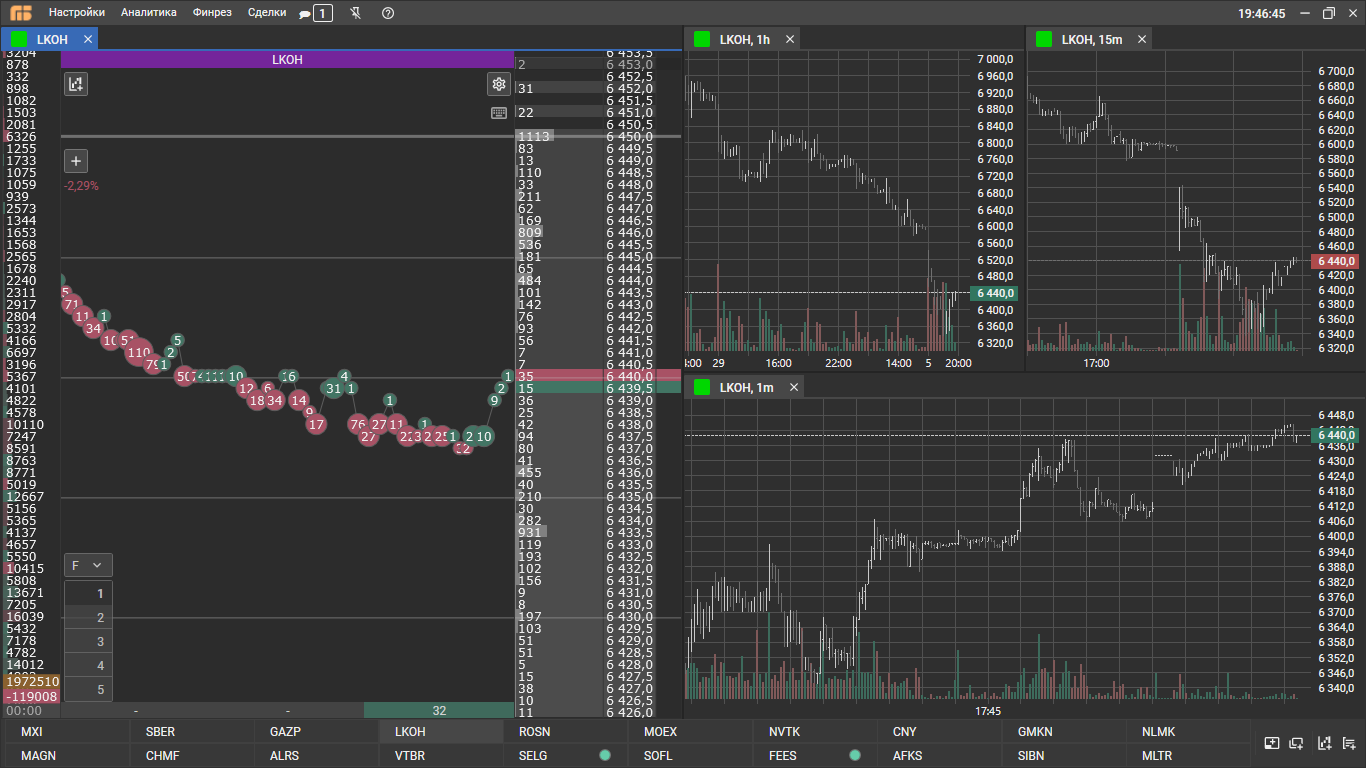
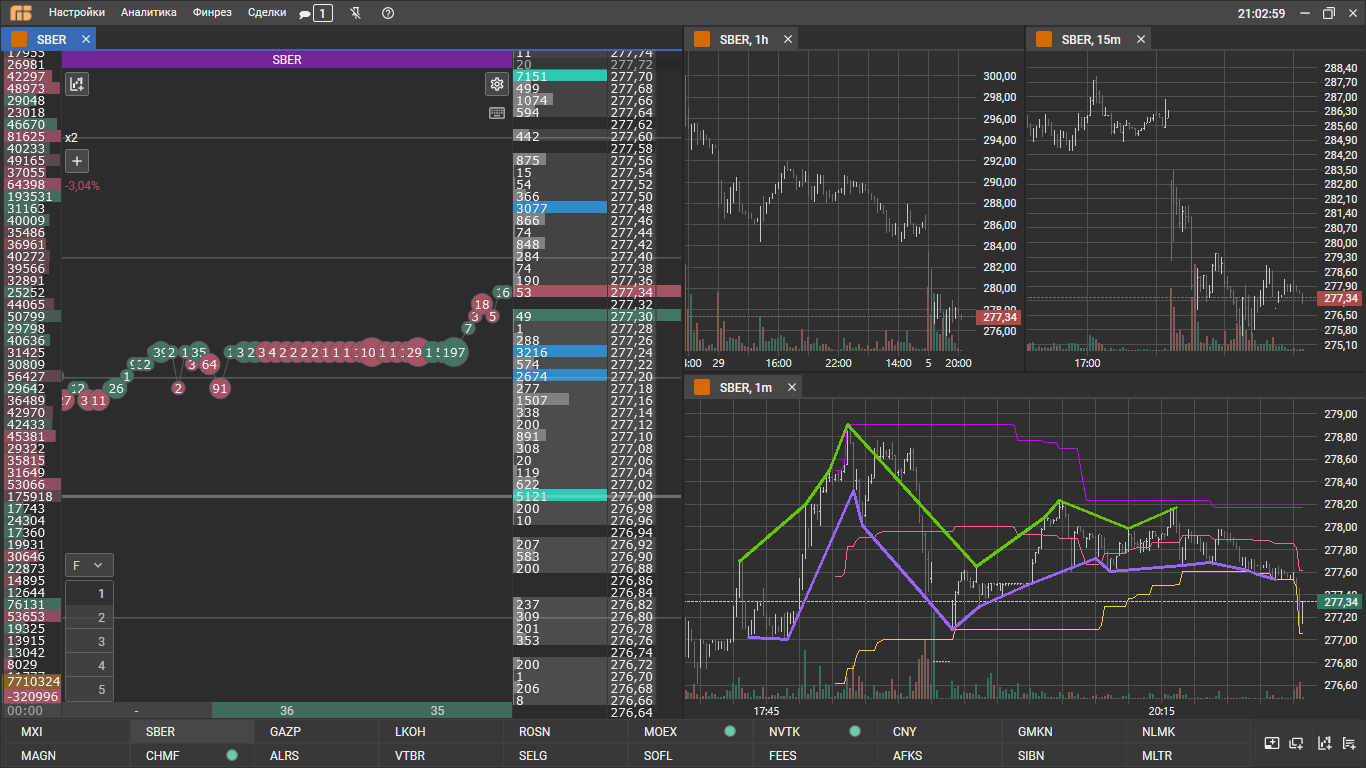
some work

diff --git a/visual_traider_v1/tas/WorkTA.py b/visual_traider_v1/tas/WorkTA.py
@@ -25,14 +25,28 @@ class WorkTA(BaseTA):
         volume_cords = self.trader._get_cords_on_mask(volume_mask)
         half_bars = self.trader._get_half_bars(candle_mask,candle_cords,volume_cords)
         cur_price = self.trader._get_current_price(chart)
-        
+        distance_per_hb = half_bars[1].x - half_bars[0].x
+        print(distance_per_hb)
+        hpts = np.array(list(map(lambda x: x.hpt,half_bars)))
+        lpts = np.array(list(map(lambda x: x.lpt,half_bars)))
+        maxs,mins =  get_williams_fractals(hpts,lpts,is_qual=True)
+        maxs = clear_fractals(maxs)
+        mins = clear_fractals(mins,False)
+        mean_maxs = maxs[:,0].mean()
+        mean_mins = mins[:,0].mean()
+        print(mean_maxs,mean_maxs//distance_per_hb)
+        print(mean_mins,mean_mins//distance_per_hb)
+        mean_all = int(mean_maxs//distance_per_hb + mean_mins//distance_per_hb)//2
+        print(mean_all)
+        print(check_michael_harris_pattern(half_bars))
+        print(check_michael_harris_pattern(half_bars,False))
         # vsa = VSA(half_bars)
         # vsa.draw_all(chart)
         # # volatility = np.array(list(map(lambda x: x.spred,half_bars)))
         # mpts = np.array(list(map(lambda x: x.mpt,half_bars)))
         # # volatility = np.mean(volatility)
         # # bullish_FGV,bearish_FGV = get_FVG(half_bars,volatility,2)
-        # ups,downs,middle = get_donchan_channel(half_bars,60)
+        ups,downs,middle = get_donchan_channel(half_bars,mean_all//2)
         # max_hb,min_hb,middle_hb = get_donchan_channel_lite(half_bars,60)
         # up,down,mup,mdown = get_van_gerchick_p(max_hb,min_hb,middle_hb)
         # # bbm,bbu,bbd = get_bollinger_bands(mpts)
@@ -59,8 +73,11 @@ class WorkTA(BaseTA):
             # cv2.circle(chart,(half_bars[-1].x,min_hb),1,(255,255,255),2)
             # cv2.circle(chart,(half_bars[-1].x,middle_hb),1,(255,255,255),2)
             # vsa.draw_all(chart)
-            # cv2.polylines(chart,[ri],False,(0,200,100),2)
-            # cv2.polylines(chart,[mi],False,(255,100,150),2)
+            cv2.polylines(chart,[ups],False,(255,0,200),1)
+            cv2.polylines(chart,[downs],False,(55,200,250),1)
+            cv2.polylines(chart,[middle],False,(155,100,250),1)
+            cv2.polylines(chart,[maxs],False,(0,200,100),2)
+            cv2.polylines(chart,[mins],False,(255,100,150),2)
             # draw_bollinger(chart,bbm,bbu,bbd,thickness=2)
             # for pl in [ups,downs,middle]:
             #     cv2.polylines(chart,[pl],False,(0,200,0))

diff --git a/visual_traider_v1/tas/PTA5_MHP.py b/visual_traider_v1/tas/PTA5_MHP.py
@@ -1,0 +1,57 @@
+'''
+Майкл Харрис паттерн
+'''
+
+import cv2
+from tas.BaseTA import BaseTA,Keys
+from utils.chart_utils.indicators import check_michael_harris_pattern
+from dataclasses import dataclass
+
+@dataclass
+class KeysW(Keys):
+    long_pattern:bool
+    short_pattern:bool
+
+
+
+class PTA5_MHP(BaseTA):
+    def __init__(self, trader,*args):
+        super().__init__(trader,*args)
+    def get_keys(self, img)-> KeysW:
+        region = self.trader.chart_region
+        chart = self.trader._get_chart(img,region)
+        candle_mask = self.trader._get_candle_mask(chart)
+        volume_mask = self.trader._get_volume_mask(chart)
+        candle_cords = self.trader._get_cords_on_mask(candle_mask)
+        volume_cords = self.trader._get_cords_on_mask(volume_mask)
+        half_bars = self.trader._get_half_bars(candle_mask,candle_cords,volume_cords)
+        cur_price = self.trader._get_current_price(chart)
+        long_pattern = check_michael_harris_pattern(half_bars)
+        short_pattern = check_michael_harris_pattern(half_bars,False)
+
+
+        if self.trader.mode in (2,0):
+            1
+            # cv2.polylines(chart,[ups],False,(255,0,200),2)
+            # cv2.polylines(chart,[downs],False,(55,200,250),2)
+            # cv2.polylines(chart,[middle],False,(155,100,250),2)
+            # cv2.polylines(chart,[siu],False,(255,0,200),2)
+            # cv2.polylines(chart,[sid],False,(55,200,250),2)
+
+        return KeysW(
+            cur_price=cur_price[1],
+            long_pattern=long_pattern,
+            short_pattern=short_pattern
+
+        )
+
+    def get_action(self, keys:KeysW):
+        if keys.short_pattern:
+            return 'short'
+        if keys.long_pattern:
+            return 'long'
+        # if keys.cur_price < keys.middle_fast:
+        #     return 'close_long'
+        # if keys.cur_price > keys.middle_fast:
+        #     return 'close_short'
+

diff --git a/visual_traider_v1/utils/chart_utils/indicators.py b/visual_traider_v1/utils/chart_utils/indicators.py
@@ -105,6 +105,32 @@ def get_williams_fractals(hpts:npt.NDArray,lpts:npt.NDArray,n=2,is_qual=False) -
                 mins.append(np.array(lpts[i]))
     return np.array(maxs),np.array(mins)
 
+def clear_fractals(fractals,top:bool=True) -> npt.NDArray:
+    clear_fractals = []
+    if top:
+        for i in range(1,len(fractals)-1):
+            if fractals[i-1][1] > fractals[i][1] <= fractals[i-1][1]:
+                clear_fractals.append(fractals[i])
+    else:
+        for i in range(1,len(fractals)-1):
+            if fractals[i-1][1] < fractals[i][1] >= fractals[i-1][1]:
+                clear_fractals.append(fractals[i])
+    return np.array(clear_fractals)
+
+def check_michael_harris_pattern(hbs:list[HalfBar],long:bool = True):
+    cur_pos = -1
+    operation = np.int64.__lt__ if long else np.int64.__gt__
+    conditions = []
+    conditions.append(operation(hbs[cur_pos].yh,hbs[cur_pos-1].yh))
+    conditions.append(operation(hbs[cur_pos-1].yh,hbs[cur_pos].yl))
+    conditions.append(operation(hbs[cur_pos].yl,hbs[cur_pos-2].yh))
+    conditions.append(operation(hbs[cur_pos-2].yh,hbs[cur_pos-1].yl))
+    conditions.append(operation(hbs[cur_pos-1].yl,hbs[cur_pos-3].yh))
+    conditions.append(operation(hbs[cur_pos-3].yh,hbs[cur_pos-2].yl))
+    conditions.append(operation(hbs[cur_pos-2].yl,hbs[cur_pos-3].yl))
+    return all(conditions)
+
+
 def get_context(half_bars):
     max_hb_i,min_hb_i = 0,0
     max_hb,min_hb = half_bars[0],half_bars[0]

diff --git a/visual_traider_v1/test.py b/visual_traider_v1/test.py
@@ -12,8 +12,22 @@ from wrappers.GroupBotWrapper import GroupBotWrapper
 from traider_bots.VisualTraider_v2 import VisualTraider_v2
 import threading
 from multiprocessing import Pool,cpu_count
+from sklearn.metrics.pairwise import cosine_similarity
+# print(cpu_count())
+import numpy as np
 
-print(cpu_count())
+# # Задаем два числовых массива
+# nums1 = np.array([1, 2, 3])
+# nums2 = np.array([4, 5, 6])
+# nums3 = np.array([5, 5, 5])
+
+# # Рассчитываем косинусную меру сходства
+# cosine_similarity1 = np.dot(nums3, nums2) / (np.linalg.norm(nums3) * np.linalg.norm(nums2))
+# print(cosine_similarity1)  # Выводим результат — итоговый коэффициент сходства 
+
+# print(cosine_similarity([nums1,nums3],[nums2]))
+
+print(int.__lt__(14,12))
 # img = cv2.imread('screens\Screen.png',0)
 # mask1 = cv2.inRange(img,ColorBtnGray.candle_color_1,ColorBtnGray.candle_color_1)
 # mask2 = cv2.inRange(img,ColorBtnGray.candle_color_2,ColorBtnGray.candle_color_2)

diff --git a/visual_traider_v1/traider_bots/AllBots.py b/visual_traider_v1/traider_bots/AllBots.py
@@ -28,8 +28,9 @@ from tas.CloserTA import CloserTA
 from tas.SleepTA import SleepTA
 from tas.PTA2_DDC import PTA2_DDC,PTA2a_DDC,PTA2_DDC2,PTA2a_DDC2
 from tas.PTA3_ADDC import PTA3_ADDC,PTA3a_ADDC
-from tas.LTA1_C import LTA1_C,LTA1_C2
 from tas.PTA4_WDDC import PTA4_WDDC,PTA4_WDDC2
+from tas.PTA5_MHP import PTA5_MHP
+from tas.LTA1_C import LTA1_C,LTA1_C2
 from tas.OGTA1_Rails import OGTA1_Rails
 
 VT2_bots = {
@@ -79,6 +80,7 @@ VT3_bots = {
     'PTA3_ADDC_30_2':(PTA3_ADDC,(30,2)),
     'PTA4_WDDC_100_10_20':(PTA4_WDDC,(100,10,20)),
     'PTA4_WDDC2_100_10_20':(PTA4_WDDC2,(100,10,20)),
+    'PTA5_MHP':(PTA5_MHP,()),
     'OGTA1_Rails':(OGTA1_Rails,())
 }
 

diff --git a/visual_traider_v1/utils/ML_utils/cls_utils.py b/visual_traider_v1/utils/ML_utils/cls_utils.py
@@ -1,1 +1,9 @@
 from sklearn.neighbors import KNeighborsClassifier
+from sklearn.metrics.pairwise import cosine_similarity
+import numpy as np
+import numpy.typing as npt
+
+def most_similar_point_knn(points:npt.NDArray,size_cluster:int=10,size_predict:int=5):
+    data = points[:-size_predict]
+    for i,point in enumerate(data):
+        slice = points[i:i+size_cluster]

diff --git a/visual_traider_v1/total_test_and_analiz_mult.py b/visual_traider_v1/total_test_and_analiz_mult.py
@@ -3,7 +3,7 @@ from time import time
 from multiprocessing import Pool
 test_data = 'test_data'
 result_dir = 'test_results'
-bot_name = 'PTA2_DDC2_15'
+bot_name = 'PTA5_MHP'
 variants = os.listdir(test_data)
 stock_group = '_'
 # stock_group = 'MXI'
